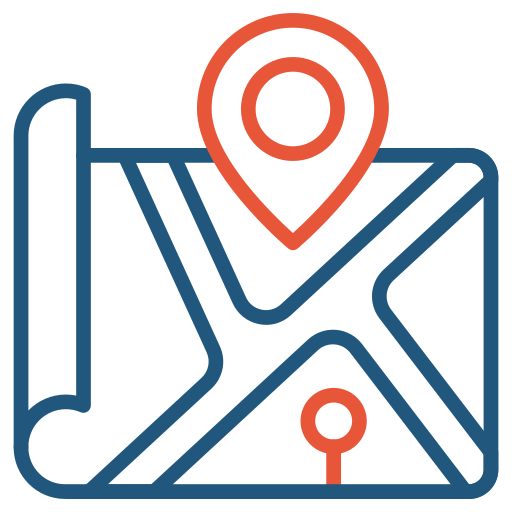
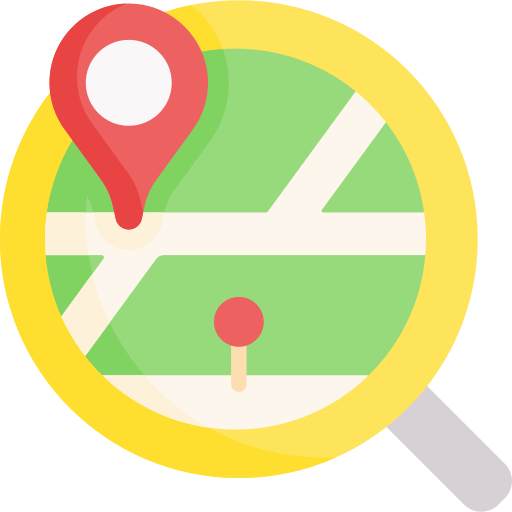
ewewewew

diff --git a/client/src/components/ProductList.tsx b/client/src/components/ProductList.tsx
@@ -4,8 +4,9 @@ import React, { useEffect, useState } from "react";
 import AdvancedSearch from "./AdvancedSearch";
 import Image from "./Image";
 import Loading from "./Loading";
-import { Category, Product, ProductInWishlist } from "@/types/type";
-import { usePathname, useSearchParams } from "next/navigation";
+import { VscSettings } from "react-icons/vsc";
+import { Category, Product } from "@/types/type";
+import { usePathname, useRouter, useSearchParams } from "next/navigation";
 import useGetWishlist from "@/hooks/useGetWishlist";
 import { useRemoveItemWishlist } from "@/hooks/useRemoveItemWishlist";
 import useAddWishlist from "@/hooks/useAddWishlist";
@@ -21,8 +22,10 @@ function ProductList({ category, products, isLoading }: Props) {
     [productId: string]: number;
   }>({});
   const searchParams = useSearchParams();
+  const router = useRouter();
   const pathname = usePathname();
   const search = searchParams.get("q");
+
   const { addWishlist } = useAddWishlist();
   const { wishlist, mutate } = useGetWishlist();
   const { removeItem } = useRemoveItemWishlist();
@@ -66,46 +69,82 @@ function ProductList({ category, products, isLoading }: Props) {
     mutate(undefined, true);
   };
 
-  function checkNewProduct(createdAt: string): boolean {
-    const createdDate = new Date(createdAt);
-    const now = new Date();
-    const checkDays =
-      (now.getTime() - createdDate.getTime()) / (1000 * 60 * 60 * 24);
-    return checkDays <= 14;
-  }
+  const sortArray = [
+    {
+      name: "Hàng mới",
+      sort: "newest",
+    },
+    {
+      name: "Giá (thấp-cao)",
+      sort: "price-asc",
+    },
+    {
+      name: "Giá (cao-thấp)",
+      sort: "price-desc",
+    },
+    {
+      name: "Bán chạy nhất",
+      sort: "bestseller",
+    },
+  ];
+
+  const handleSortChange = (e: React.ChangeEvent<HTMLSelectElement>) => {
+    const sort = e.target.value;
+    const params = new URLSearchParams(searchParams.toString());
+
+    if (sort) {
+      params.set("sort", sort);
+    } else {
+      params.delete("sort");
+    }
+
+    router.push(`?${params.toString()}`);
+  };
 
   return (
     <section className="px-[10px] mt-[40px] sm:mt-[45px] sm:px-[15px]">
       <div className="w-full mx-auto md:max-w-[1000px] lg:max-w-[1240px]">
-        <div className="flex justify-between items-center flex-wrap my-[10px] mb-[35px]">
-          <h2 className="text-[1.5rem] sm:text-[1.7rem] font-[550]">
-            {pathname === "/collection/nam"
-              ? "Đồ nam"
-              : pathname === "/collection/nu"
-              ? "Đồ nữ"
-              : pathname === "/collection/all"
-              ? "Tất cả sản phẩm"
-              : category
-              ? `${category.namecategory} ${
-                  category.gender === 1 ? "nam" : "nữ"
-                }`
-              : ""}
+        <h2 className="text-[1.5rem] sm:text-[1.7rem] font-[550]  mb-[20px]">
+          {pathname === "/collection/nam"
+            ? "Đồ nam"
+            : pathname === "/collection/nu"
+            ? "Đồ nữ"
+            : pathname === "/collection/all"
+            ? "Tất cả sản phẩm"
+            : category
+            ? `${category.namecategory} ${category.gender === 1 ? "nam" : "nữ"}`
+            : ""}
 
-            {pathname === "/search" && search && search}
+          {pathname === "/search" && search && search}
 
-            {pathname === "/sale/nam"
-              ? "Giảm giá đồ nam"
-              : pathname === "/sale/nu"
-              ? "Giảm giá đồ nữ"
-              : ""}
-          </h2>
+          {pathname === "/sale/nam"
+            ? "Giảm giá đồ nam"
+            : pathname === "/sale/nu"
+            ? "Giảm giá đồ nữ"
+            : ""}
+        </h2>
 
+        <div className="flex justify-between items-center flex-wrap mb-[35px]">
           <button
-            className="px-2 py-2 border border-black text-[0.85rem] text-black"
+            className="bg-gray-50 border border-gray-300 text-gray-900 text-[0.9rem] rounded-sm block p-2 outline-0"
             onClick={toggleAdvancedSearch}
           >
-            Bộ lọc & Sắp xếp
+            <span className="flex gap-2 items-center text-[0.9rem] font-medium">
+              <VscSettings size={20} /> Bộ lọc
+            </span>
           </button>
+
+          <select
+            onChange={handleSortChange}
+            value={searchParams.get("sort") ?? ""}
+            className="bg-gray-50 border border-gray-300 text-gray-900 text-[0.9rem] rounded-sm block p-2 outline-0"
+          >
+            {sortArray.map((item, index) => (
+              <option value={item.sort} key={index}>
+                {item.name}
+              </option>
+            ))}
+          </select>
         </div>
 
         <AdvancedSearch
@@ -161,13 +200,6 @@ function ProductList({ category, products, isLoading }: Props) {
                           %
                         </p>
                       )}
-
-                      {product.createdAt &&
-                        checkNewProduct(product.createdAt) && (
-                          <p className="uppercase text-[0.75rem] py-1 px-1.5 bg-white">
-                            Hàng mới
-                          </p>
-                        )}
                     </div>
 
                     <div className="absolute top-[12px] right-[10px] z-[3] font-semibold text-center text-black">

diff --git a/client/src/components/AdvancedSearch.tsx b/client/src/components/AdvancedSearch.tsx
@@ -13,14 +13,6 @@ function AdvancedSearch({ isOpen, toggleMenu }: AdvancedSearchProps) {
   const router = useRouter();
   const searchParams = useSearchParams();
 
-  const handleSort = (sortValue: string) => {
-    const params = new URLSearchParams(searchParams.toString());
-    params.set("sort", sortValue);
-    params.set("page", "1");
-
-    router.push(`${pathname}?${params.toString()}`);
-  };
-
   const handleSubmit = (e: React.FormEvent<HTMLFormElement>) => {
     e.preventDefault();
 
@@ -54,8 +46,8 @@ function AdvancedSearch({ isOpen, toggleMenu }: AdvancedSearchProps) {
   return (
     <>
       <div
-        className={`fixed top-0 right-0 w-[320px] h-full overflow-y-scroll overflow-x-hidden bg-white z-[25] transform transition-transform duration-300 ease-in-out ${
-          isOpen ? "translate-x-[0px]" : "translate-x-[320px]"
+        className={`fixed top-0 left-0 w-[320px] h-full overflow-y-scroll overflow-x-hidden bg-white z-[25] transform transition-transform duration-300 ease-in-out ${
+          isOpen ? "translate-x-[0px]" : "translate-x-[-320px]"
         }`}
         style={{ scrollbarWidth: "none", msOverflowStyle: "none" }}
       >
@@ -66,50 +58,35 @@ function AdvancedSearch({ isOpen, toggleMenu }: AdvancedSearchProps) {
           </button>
         </div>
 
-        <form action="" onSubmit={handleSubmit}>
-          <div>
-            <div className="flex items-center justify-between p-3.5 border-t border-gray-200">
-              <h2 className="block font-semibold text-[1rem] uppercase">
-                Sắp xếp theo
-              </h2>
-              <IoIosArrowDown size={18} />
+        <div className=" p-3.5 border-t border-gray-200">
+          <h2 className="block font-semibold text-[1rem] mb-2.5">
+            Bộ lọc đã chọn
+          </h2>
+          <div className="flex items-center flex-wrap gap-3">
+            <div className="bg-[#f5f5f5] border border-gray-300 rounded-[4px] p-[9px_10px] flex justify-between items-center gap-1.5 cursor-pointer">
+              <button>
+                <HiMiniXMark size={18} color="black" />
+              </button>
+              <span className="text-[0.9rem]">Bán chạy</span>
             </div>
 
-            <div className="flex flex-col">
-              <button
-                type="button"
-                onClick={() => handleSort("price-asc")}
-                className="uppercase text-[0.9rem] p-3.5 border-t border-gray-300 text-left"
-              >
-                Giá (thấp-cao)
+            <div className="bg-[#f5f5f5] border border-gray-300 rounded-[4px] p-[9px_10px] flex justify-between items-center gap-1.5 cursor-pointer">
+              <button>
+                <HiMiniXMark size={18} color="black" />
               </button>
+              <span className="text-[0.9rem]">Đang giảm giá</span>
+            </div>
 
-              <button
-                type="button"
-                onClick={() => handleSort("price-desc")}
-                className="uppercase text-[0.9rem] p-3.5 border-t border-gray-300 text-left"
-              >
-                Giá (cao-thấp)
+            <div className="bg-[#f5f5f5] border border-gray-300 rounded-[4px] p-[9px_10px] flex justify-between items-center gap-1.5 cursor-pointer">
+              <button>
+                <HiMiniXMark size={18} color="black" />
               </button>
-
-              <button
-                type="button"
-                onClick={() => handleSort("newest")}
-                className="uppercase text-[0.9rem] p-3.5 border-t border-gray-300 text-left"
-              >
-                Mới nhất
-              </button>
-
-              <button
-                type="button"
-                onClick={() => handleSort("bestseller")}
-                className="uppercase text-[0.9rem] p-3.5 border-t border-gray-300 text-left"
-              >
-                Bán chạy nhất
-              </button>
+              <span className="text-[0.9rem]">Áo sơ mi</span>
             </div>
           </div>
+        </div>
 
+        <form action="" onSubmit={handleSubmit}>
           <div>
             <div className="flex items-center justify-between p-3.5 border-t border-gray-200">
               <h2 className="block font-semibold text-[1rem] uppercase">Giá</h2>

diff --git a/client/src/components/ProductSlider.tsx b/client/src/components/ProductSlider.tsx
@@ -63,14 +63,6 @@ function ProductSlider({ title, products }: Props) {
     mutate(undefined, true);
   };
 
-  function checkNewProduct(createdAt: string): boolean {
-    const createdDate = new Date(createdAt);
-    const now = new Date();
-    const checkDays =
-      (now.getTime() - createdDate.getTime()) / (1000 * 60 * 60 * 24);
-    return checkDays <= 14;
-  }
-
   return (
     <>
       {products.length > 0 && (
@@ -123,13 +115,6 @@ function ProductSlider({ title, products }: Props) {
                             %
                           </p>
                         )}
-
-                        {product.createdAt &&
-                          checkNewProduct(product.createdAt) && (
-                            <p className="uppercase text-[0.75rem] py-1 px-1.5 bg-white">
-                              Hàng mới
-                            </p>
-                          )}
                       </div>
 
                       <div className="absolute top-[12px] right-[10px] z-[3] font-semibold text-center text-black">

diff --git a/client/src/components/OrderHistory.tsx b/client/src/components/OrderHistory.tsx
@@ -165,13 +165,13 @@ function OrderHistory() {
                       <Image
                         Src={"/assets/other/empty-order.png"}
                         Alt={""}
-                        ClassName={"w-[130px]"}
+                        ClassName={"w-[120px]"}
                         loadingType="eager"
                       />
                     </div>
 
                     <div className="flex justify-center flex-col gap-3 items-center text-center">
-                      <h2 className="text-[1.1rem] font-semibold">
+                      <h2 className="text-[1.1rem] font-medium">
                         Không có đơn hàng nào
                       </h2>
                     </div>

diff --git a/client/src/components/AddressInfo.tsx b/client/src/components/AddressInfo.tsx
@@ -123,8 +123,8 @@ function AddressInfo() {
                       </div>
 
                       <div className="flex justify-center flex-col gap-3 items-center text-center">
-                        <h2 className="text-[1.1rem] font-semibold">
-                          Không có đơn hàng nào
+                        <h2 className="text-[1.1rem] font-medium">
+                          Không có địa chỉ nào
                         </h2>
                       </div>
                     </div>

diff --git a/client/src/components/OrderDetail.tsx b/client/src/components/OrderDetail.tsx
@@ -63,7 +63,7 @@ function OrderDetail() {
                 </div>
 
                 <Link href={"/order"} className="text-center">
-                  <span className="flex items-center font-semibold text-[0.95rem] text-gray-400">
+                  <span className="flex items-center font-semibold text-[0.95rem] text-gray-500">
                     <RiArrowLeftSLine size={20} /> Trở về
                   </span>
                 </Link>

diff --git a/admin/src/components/OrderDetail.tsx b/admin/src/components/OrderDetail.tsx
@@ -60,7 +60,7 @@ function OrderDetail() {
               </div>
 
               <Link href={"/order"} className="text-center">
-                <span className="flex items-center font-semibold text-[0.95rem] text-gray-400">
+                <span className="flex items-center font-semibold text-[0.95rem] text-gray-500">
                   {" "}
                   <RiArrowLeftSLine size={20} /> Trở về
                 </span>
